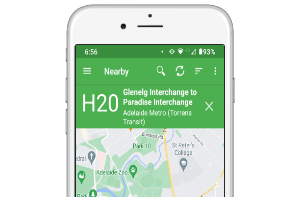
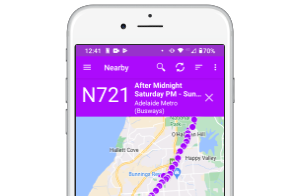
feat: New colour theme created

diff --git a/onebusaway-enterprise-acta-webapp/src/main/webapp/css/branding.css b/onebusaway-enterprise-acta-webapp/src/main/webapp/css/branding.css
@@ -228,7 +228,6 @@
 html, body {
     background-image: url("img/grey_bg.jpg");
     background-repeat: repeat-x;
-    color: #333333;
     font: 13px/1.231 helvetica,arial,clean,sans-serif;
 }
 #mainbox {
@@ -239,10 +238,12 @@ html, body {
 }
 #topbar {
     height: 121px;
+    background-image: url(img/topbar_background.png);
+    background-repeat: repeat;
 }
 #topbar #branding {
     float: left;
-    height: 90px;
+    height: 114px;
 }
 #topbar #branding a img,
 #topbar #branding a {
@@ -502,7 +503,7 @@ Sub level menu
     height: 100%;
     width: 100%;
     float: left;
-    background-color: #78AA36;
+    background-color: blueviolet;
     position: relative;
     display: flex;
     flex-direction: row-reverse;
